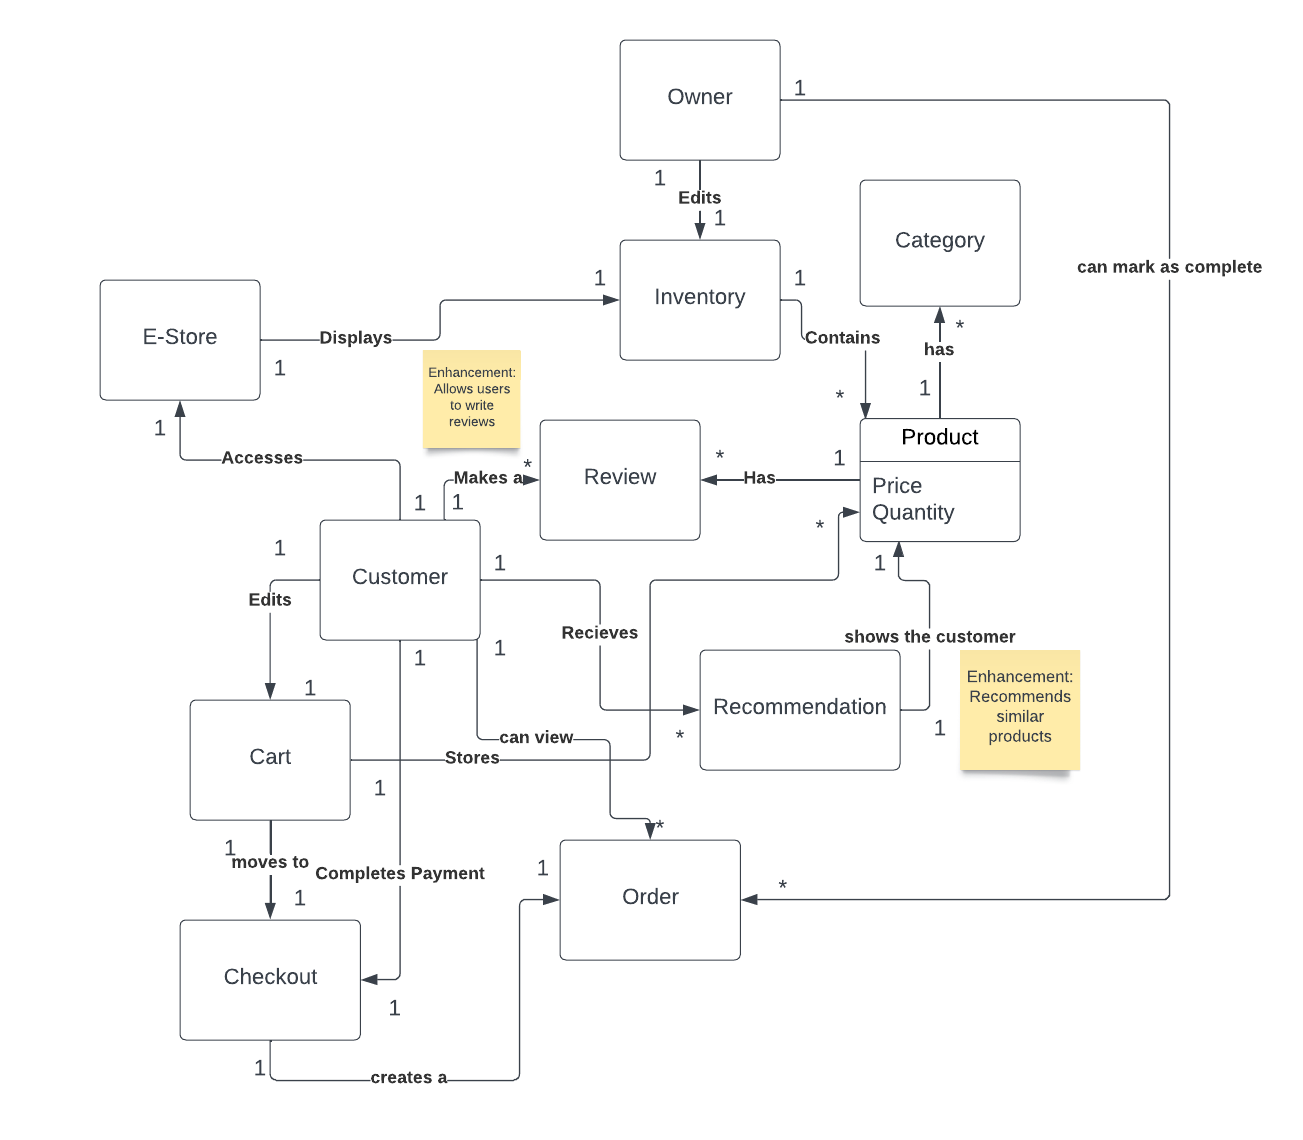
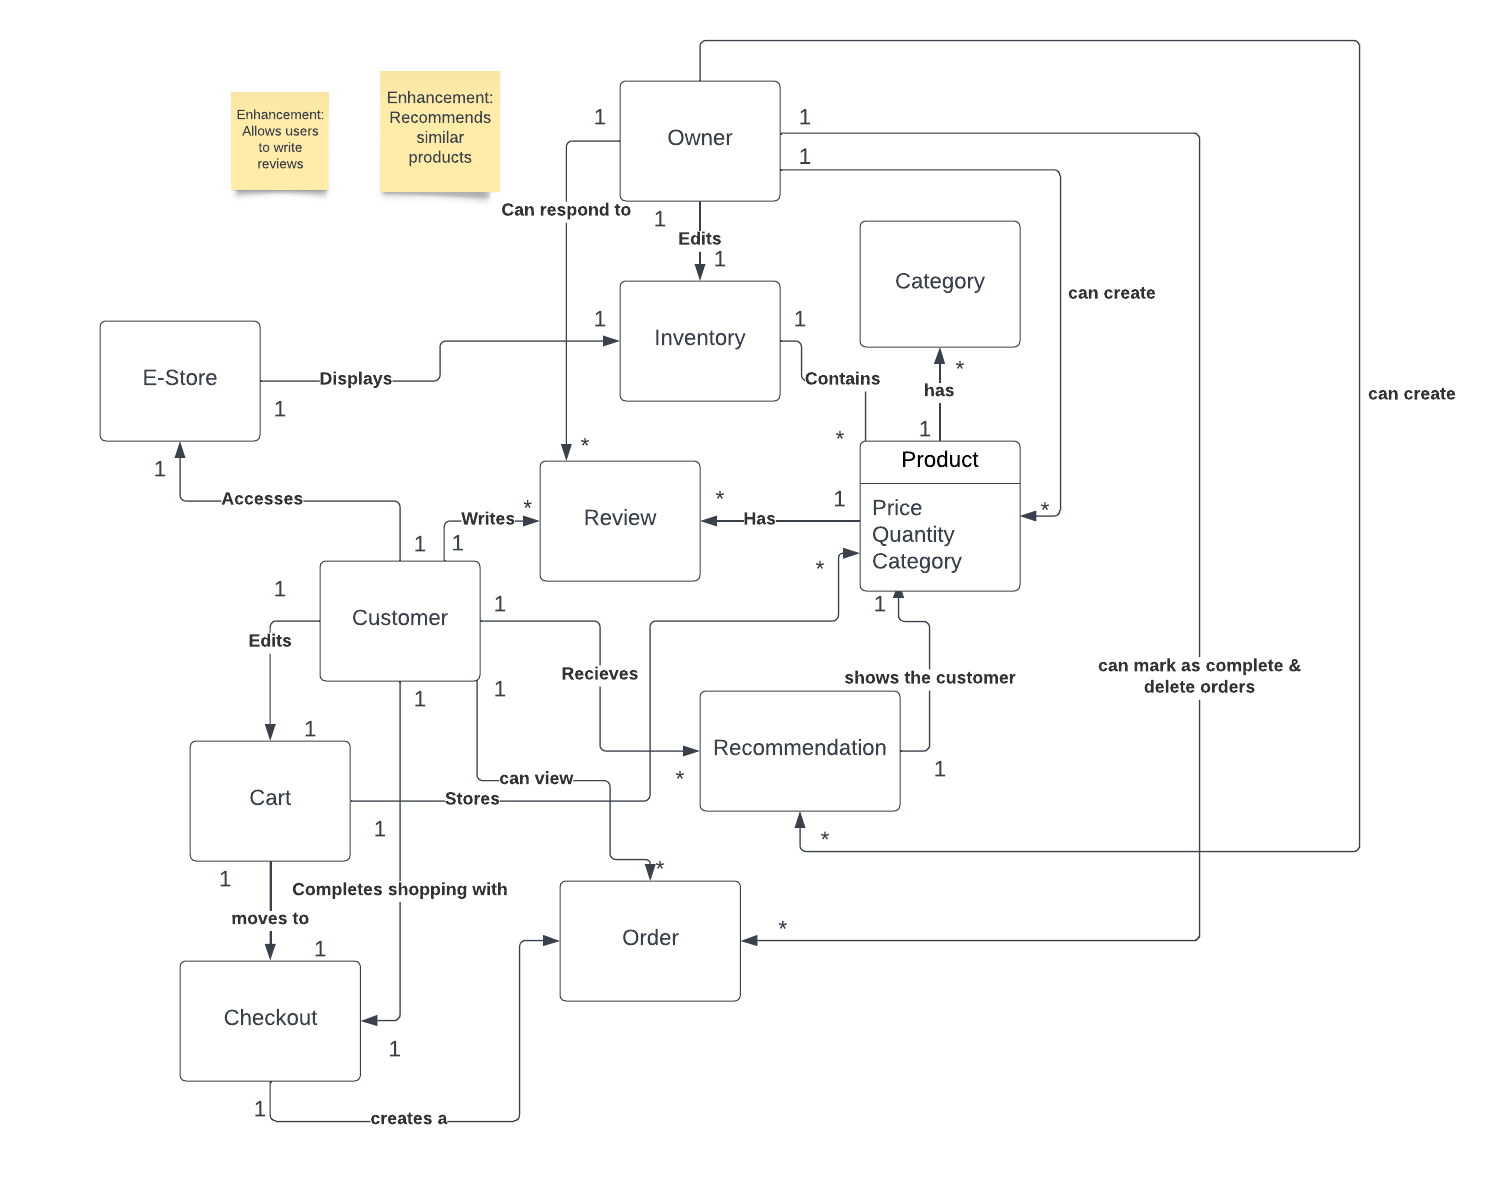
Update domain model and domain analysis section

diff --git a/docs/DesignDoc.md b/docs/DesignDoc.md
@@ -82,12 +82,12 @@ This section describes the application domain.
 
 ![Domain Model](DomainAnalysis.png)
 
-The main interactions within our domain model take place through a customer's interactions with the store. `<br>`
-A **customer** will create an account and then browse the store's **inventory** which will display a collection of **product**. `<br>`
-The user can view existing **review** for each **product**, view **product** sorted by **category** as well as receive a **recommendation** for other products, this assists the user in making purchases. `<br>`
-Once the **customer** has decided to purchase a **product** they can add the item to their **cart** and continue to add more items until they are ready to purchase. `<br>`
-When purchasing, their **cart** will be moved to the **checkout** phase and all items will be marked as purchased and saved in an **order**. `<br>`
-The **customer** can then view the status of their **order**. `<br>`
+The main interactions within our domain model take place through a customer's interactions with the store.
+A **customer** will create an account and then browse the store's **inventory** which will display a collection of **product**.
+The **customer** can view existing **review** for each **product**, view **product** sorted by **category** as well as receive a **recommendation** for other products, this assists the user in making purchases.
+Once the **customer** has decided to purchase a **product** they can add the item to their **cart** and continue to add more items until they are ready to purchase.
+When purchasing, their **cart** will be moved to the **checkout** phase and all items will be marked as purchased and saved in an **order**.
+The **customer** can then view the status of their **order**.
 The **owner** can mark an **order** as complete, which will notify the **customer** that their order has been processed.
 
 ## Architecture and Design
